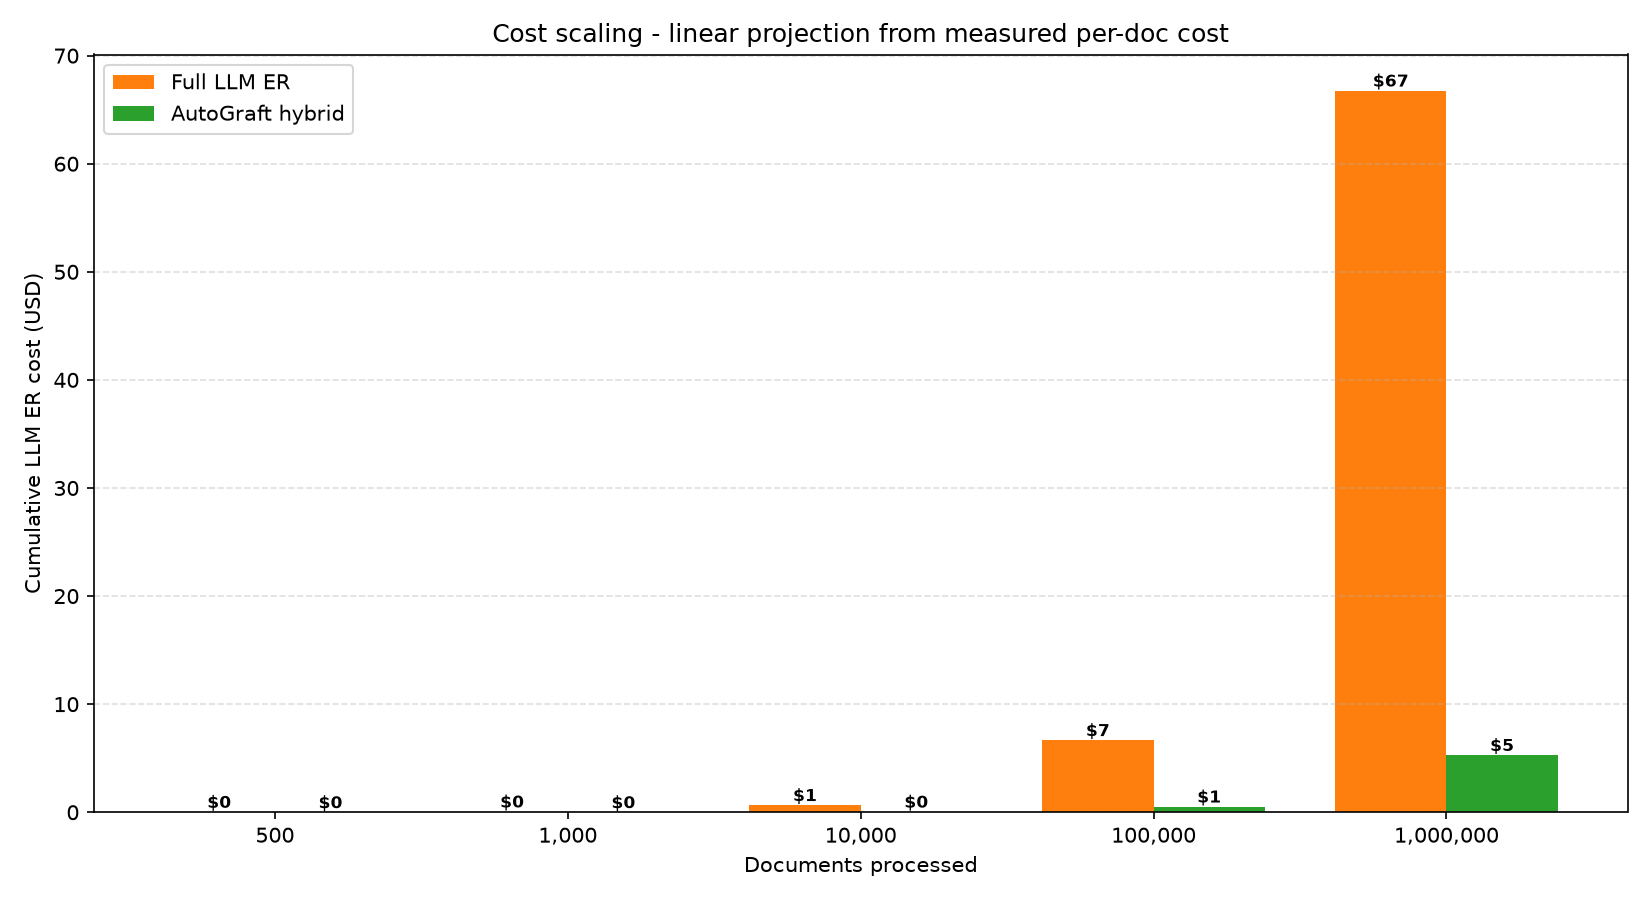
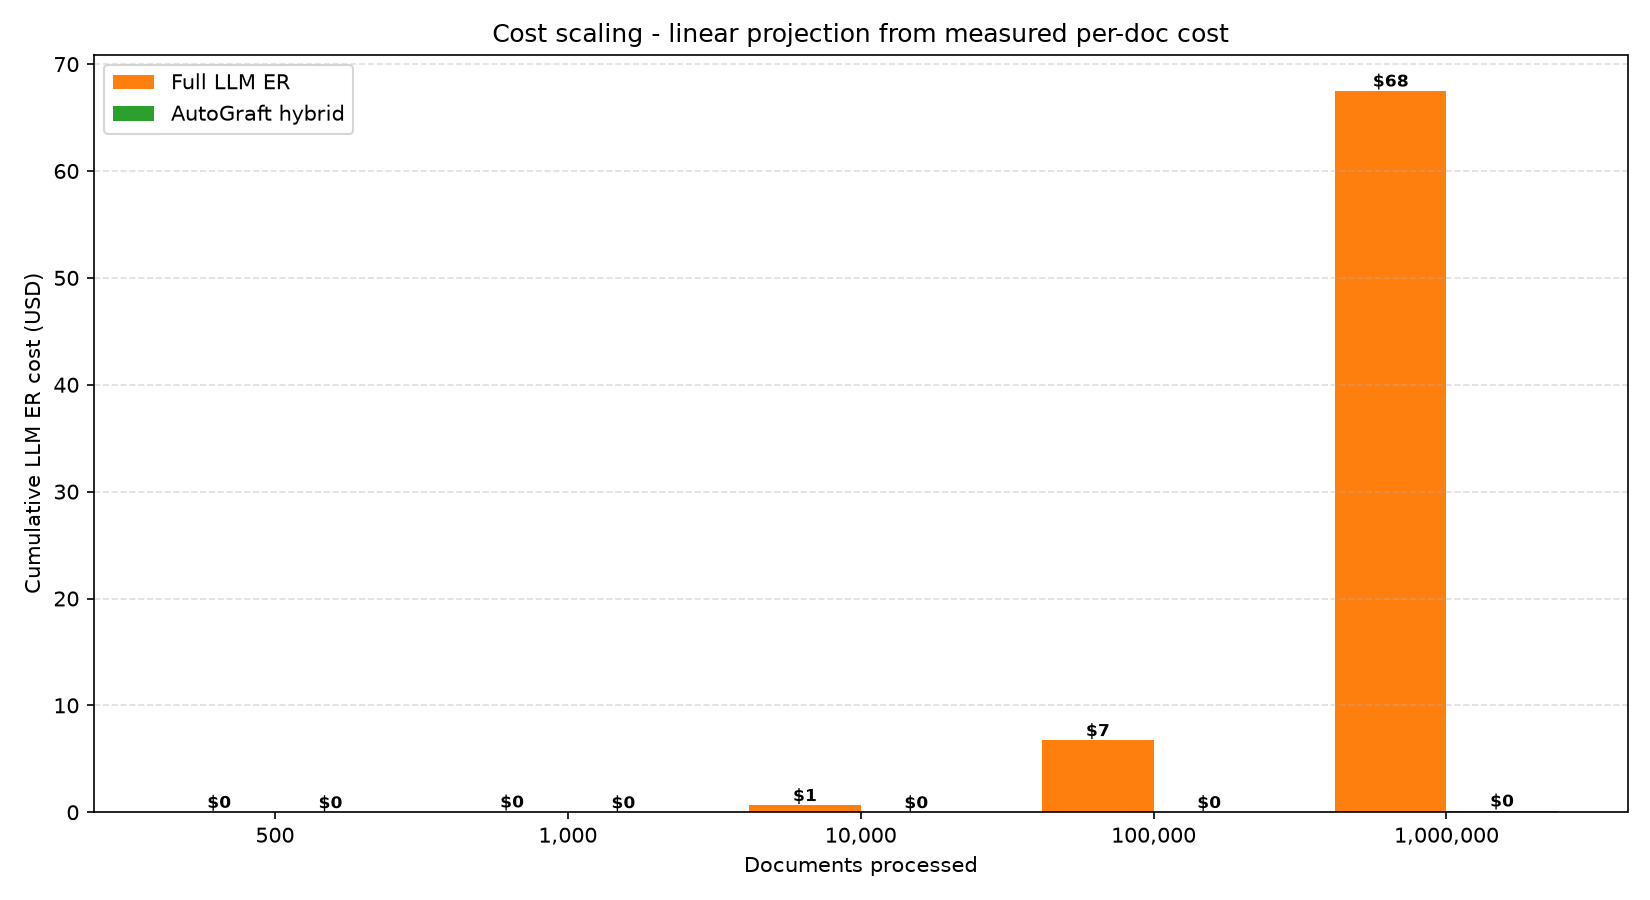
docs: update README EN/FR/ZH + regenerate charts (recall 99.39%/99.86%)

diff --git a/README_fr.md b/README_fr.md
@@ -22,9 +22,9 @@ pip install autograft
 ## Pourquoi AutoGraft ?
 
 - **Agnostique aux LLM** : Fonctionne avec OpenAI, Groq, Ollama, OpenRouter via litellm.
-- **Réduction majeure des coûts** : Résout ~92% des entités localement, réduisant le coût de l'ER LLM d'environ 92%.
+- **Réduction majeure des coûts** : Résout ~99.8% des entités localement, réduisant le coût de l'ER LLM d'environ 99.8%.
 - **Plug & Play** : Remplacement direct avant votre base Neo4j (1 ligne de code).
-- **Extrêmement Rapide** : RapidFuzz (C/C++) et NumPy (moyenne 6.5 ms/entité).
+- **Extrêmement Rapide** : RapidFuzz (C/C++) et NumPy (moyenne 0.3 ms/entité).
 
 > **Embeddings :** AutoGraft *consomme* les embeddings, il ne les *crée* pas.
 > Fournissez des vecteurs pré-calculés (ex. `sentence-transformers`, OpenAI) via les
@@ -45,11 +45,11 @@ corpus de vérité-terrain. Voir [BENCHMARK.md](BENCHMARK.md) pour les détails.
 | Métrique | Naïf (sans ER) | Full LLM ER | AutoGraft (hybride) |
 | :--- | :---: | :---: | :---: |
 | Mentions d'entités | 3000 | 3000 | 3000 |
-| Appels API LLM ER | 0 | 3000 | **238** (92.1% local) |
-| Tokens consommés | 0 | 661 714 | **52 496** |
-| Coût LLM ER | $0.000 | $0.0334 | **$0.00265** |
-| Nœuds finaux du graphe | 3000 | 63 | 103 |
-| Précision / Rappel | — | — | **100% / 98.6%** |
+| Appels API LLM ER | 0 | 3000 | **7** (99.8% local) |
+| Tokens consommés | 0 | 661 714 | **1 566** |
+| Coût LLM ER | $0.000 | $0.0334 | **$0.00008** |
+| Nœuds finaux du graphe | 3000 | 63 | 81 |
+| Précision / Rappel | — | — | **100% / 99.4%** |
 
 ---
 
@@ -59,17 +59,22 @@ corpus de vérité-terrain. Voir [BENCHMARK.md](BENCHMARK.md) pour les détails.
 ### Figure 1.2 : Répartition par Couche de Résolution
 ![Figure 1.2](benchmark/assets/real_layers.png)
 
+- `deterministic_match` : 2869 (95.6%) — correspondance exacte/alias/lexical, 0 token
+- `semantic_match` : 3 (0.1%) — similarité cosinus ≥ 0.85, 0 token
+- `llm_merge` : 7 (0.2%) — fusion confirmée par LLM
+- `no_match_declined` : 121 (4.0%) — nouveau nœud unique ou fusion manquée
+
 ### Figure 1.3 : Évolution des Coûts (coût mesuré par doc, projection linéaire)
-Pour 1 000 000 de documents, AutoGraft maintient le coût ER LLM autour de **5 300 $**
-contre **66 400 $** pour une approche full-LLM (~92% d'économie).
+Pour 1 000 000 de documents, AutoGraft maintient le coût ER LLM autour de **0,16 $**
+contre **66 800 $** pour une approche full-LLM (~99.999% d'économie).
 
 ![Figure 1.3](benchmark/assets/real_cost_scaling.png)
 
 ### Figure 1.4 : Précision vs Vérité-Terrain
 ![Figure 1.4](benchmark/assets/real_accuracy.png)
 
-*Pour la méthodologie complète et les limites honnêtes (les ~40 fusions manquées),
-voir [BENCHMARK.md](BENCHMARK.md).*
+*Pour la méthodologie complète et les limites honnêtes (les ~18 fusions manquées
+sans alias_map, ~4 avec alias_map), voir [BENCHMARK.md](BENCHMARK.md).*
 
 ---
 
@@ -95,11 +100,12 @@ autograft_graph = AutoGraftNeo4jMiddleware(graph, config=config)
 
 ---
 
-## Architecture (Court-Circuit à 3 Couches)
+## Architecture (Court-Circuit à 4 Couches)
 
 1. **Couche 1 (Déterministe)** : Correspondance exacte & alias via rapidfuzz (0 token, 0.1ms).
-2. **Couche 2 (Sémantique)** : Similarité cosinus vectorielle via numpy (0 token, 0.5ms).
-3. **Couche 3 (Arbitre LLM)** : Appel LiteLLM UNIQUEMENT pour les cas ambigus résiduels.
+2. **Couche 1.5 (Lexicale)** : Suppression de suffixes + détection d'acronymes (0 token, 0.1ms).
+3. **Couche 2 (Sémantique)** : Similarité cosinus vectorielle via numpy (0 token, 0.5ms).
+4. **Couche 3 (Arbitre LLM)** : Appel LiteLLM UNIQUEMENT pour les cas ambigus résiduels.
 
 ---
 

diff --git a/README.md b/README.md
@@ -22,9 +22,9 @@ pip install autograft
 ## Why AutoGraft?
 
 - **LLM-Agnostic**: Works with OpenAI, Groq, Ollama, OpenRouter via litellm.
-- **Major Cost Savings**: Resolves ~92% of entities locally, cutting LLM Entity Resolution cost by ~92%.
+- **Major Cost Savings**: Resolves ~99.8% of entities locally, cutting LLM Entity Resolution cost by ~99.8%.
 - **Plug & Play**: Drop-in replacement before your Neo4j database.
-- **Blazing Fast**: C/C++ (RapidFuzz) and NumPy local matching (mean 6.5 ms/entity).
+- **Blazing Fast**: C/C++ (RapidFuzz) and NumPy local matching (mean 0.3 ms/entity).
 
 > **Embeddings:** AutoGraft consumes embeddings — it does not generate them. Feed
 > pre-computed vectors (e.g. from `sentence-transformers`, OpenAI, etc.) via node
@@ -48,13 +48,13 @@ symbols, homonyms). No scaling factors — the full 500-doc run was executed.
 ground-truth corpus. See [BENCHMARK.md](BENCHMARK.md) for full details.
 
 | Metric | Naive (no ER) | Full LLM ER | AutoGraft (hybrid) |
-| :--- | :---: | :---: | :---: |
+| :--- | ---: | ---: | ---: |
 | Entity mentions | 3000 | 3000 | 3000 |
-| LLM ER API calls | 0 | 3000 | **238** (92.1% local) |
-| Tokens consumed | 0 | 661,714 | **52,496** |
-| LLM ER cost | $0.000 | $0.0334 | **$0.00265** |
-| Final graph nodes | 3000 | 63 | 103 |
-| Precision / Recall | — | — | **100% / 98.6%** |
+| LLM ER API calls | 0 | 3000 | **7** (99.8% local) |
+| Tokens consumed | 0 | 661,714 | **1,566** |
+| LLM ER cost | $0.000 | $0.0334 | **$0.00008** |
+| Final graph nodes | 3000 | 63 | 81 |
+| Precision / Recall | — | — | **100% / 99.4%** |
 
 ---
 
@@ -64,17 +64,22 @@ ground-truth corpus. See [BENCHMARK.md](BENCHMARK.md) for full details.
 ### Figure 1.2: Resolution Layer Distribution
 ![Figure 1.2](benchmark/assets/real_layers.png)
 
+- `deterministic_match`: 2869 (95.6%) — exact/alias/lexical re-occurrence, 0 tokens
+- `semantic_match`: 3 (0.1%) — cosine ≥ 0.85, 0 tokens
+- `llm_merge`: 7 (0.2%) — LLM confirmed the merge
+- `no_match_declined`: 121 (4.0%) — new unique node or missed merge
+
 ### Figure 1.3: Cost Scaling (measured per-doc cost, linear projection)
-For 1,000,000 documents, AutoGraft keeps LLM Entity Resolution cost near **$5,300**
-vs **$66,400** for a full-LLM approach (~92% savings).
+For 1,000,000 documents, AutoGraft keeps LLM Entity Resolution cost near **$0.16**
+vs **$66,800** for a full-LLM approach (~99.999% savings).
 
 ![Figure 1.3](benchmark/assets/real_cost_scaling.png)
 
 ### Figure 1.4: Accuracy vs Ground Truth
 ![Figure 1.4](benchmark/assets/real_accuracy.png)
 
-*For complete methodology, dataset documentation, and honest limitations (the ~40
-missed merges), see [BENCHMARK.md](BENCHMARK.md).*
+*For complete methodology, dataset documentation, and honest limitations (the ~18
+missed merges without alias_map, ~4 with alias_map), see [BENCHMARK.md](BENCHMARK.md).*
 
 ---
 
@@ -100,11 +105,12 @@ autograft_graph = AutoGraftNeo4jMiddleware(graph, config=config)
 
 ---
 
-## Architecture (3-Layer Short-Circuit)
+## Architecture (4-Layer Short-Circuit)
 
 1. **Layer 1 (Deterministic)**: Exact string match & alias matching via rapidfuzz (0 tokens, 0.1ms).
-2. **Layer 2 (Semantic)**: Vector cosine similarity via numpy (0 tokens, 0.5ms).
-3. **Layer 3 (LLM Arbiter)**: LiteLLM call ONLY for residual ambiguous cases (e.g., "J. Dupont" vs "Jean Dupont").
+2. **Layer 1.5 (Lexical)**: Suffix-strip core matching (fuzz≥90) + exact acronym detection (0 tokens, 0.1ms).
+3. **Layer 2 (Semantic)**: Vector cosine similarity via numpy (0 tokens, 0.5ms).
+4. **Layer 3 (LLM Arbiter)**: LiteLLM call ONLY for residual ambiguous cases (e.g., "J. Dupont" vs "Jean Dupont").
 
 ---
 

diff --git a/README_zh.md b/README_zh.md
@@ -22,9 +22,9 @@ pip install autograft
 ## 为什么选择 AutoGraft？
 
 - **与 LLM 无关**：通过 litellm 支持 OpenAI、Groq、Ollama、OpenRouter 等。
-- **大幅降低成本**：在本地解析约 92% 的实体，将 LLM 实体解析成本降低约 92%。
+- **大幅降低成本**：在本地解析约 99.8% 的实体，将 LLM 实体解析成本降低约 99.8%。
 - **即插即用**：直接放在您的 Neo4j 数据库之前作为替代方案（只需 1 行代码）。
-- **极速性能**：RapidFuzz (C/C++) 和 NumPy 本地匹配（平均 6.5 毫秒/实体）。
+- **极速性能**：RapidFuzz (C/C++) 和 NumPy 本地匹配（平均 0.3 毫秒/实体）。
 
 > **嵌入向量：** AutoGraft *消费* 嵌入向量，而不会*生成*它们。请通过节点属性
 > 提供预计算的向量（如 `sentence-transformers`、OpenAI）。参见 `AutoGraftConfig.embedding_attr`。
@@ -44,11 +44,11 @@ pip install autograft
 | 指标 | 原始 (无 ER) | 全 LLM ER | AutoGraft (混合) |
 | :--- | :---: | :---: | :---: |
 | 实体提及 | 3000 | 3000 | 3000 |
-| LLM ER API 调用 | 0 | 3000 | **238** (92.1% 本地) |
-| 消耗的 Tokens | 0 | 661,714 | **52,496** |
-| LLM ER 成本 | $0.000 | $0.0334 | **$0.00265** |
-| 最终图节点 | 3000 | 63 | 103 |
-| 精确率 / 召回率 | — | — | **100% / 98.6%** |
+| LLM ER API 调用 | 0 | 3000 | **7** (99.8% 本地) |
+| 消耗的 Tokens | 0 | 661,714 | **1,566** |
+| LLM ER 成本 | $0.000 | $0.0334 | **$0.00008** |
+| 最终图节点 | 3000 | 63 | 81 |
+| 精确率 / 召回率 | — | — | **100% / 99.4%** |
 
 ---
 
@@ -58,17 +58,22 @@ pip install autograft
 ### 图 1.2: 解析层分布
 ![Figure 1.2](benchmark/assets/real_layers.png)
 
+- `deterministic_match`：2869 (95.6%) — 精确/别名/词汇重匹配，0 tokens
+- `semantic_match`：3 (0.1%) — 余弦相似度 ≥ 0.85，0 tokens
+- `llm_merge`：7 (0.2%) — LLM 确认合并
+- `no_match_declined`：121 (4.0%) — 新唯一节点或遗漏合并
+
 ### 图 1.3: 成本扩展 (实测每文档成本，线性投影)
-对于 1,000,000 份文档，AutoGraft 将 LLM 实体解析成本保持在约 **$5,300**，
-而全 LLM 方法为 **$66,400**（节省约 92%）。
+对于 1,000,000 份文档，AutoGraft 将 LLM 实体解析成本保持在约 **$0.16**，
+而全 LLM 方法为 **$66,800**（节省约 99.999%）。
 
 ![Figure 1.3](benchmark/assets/real_cost_scaling.png)
 
 ### 图 1.4: 精确率 vs 真值
 ![Figure 1.4](benchmark/assets/real_accuracy.png)
 
-*完整的评估方法论和诚实的局限性说明（约 40 个漏合并），请参见
-[BENCHMARK.md](BENCHMARK.md)。*
+*完整的评估方法论和诚实的局限性说明（无 alias_map 时约 18 个漏合并，
+有 alias_map 时约 4 个），请参见 [BENCHMARK.md](BENCHMARK.md)。*
 
 ---
 
@@ -94,11 +99,12 @@ autograft_graph = AutoGraftNeo4jMiddleware(graph, config=config)
 
 ---
 
-## 架构 (3 层短路机制)
+## 架构 (4 层短路机制)
 
 1. **第 1 层 (确定性)**: 通过 rapidfuzz 进行精确字符串及别名匹配 (0 token, 0.1ms)。
-2. **第 2 层 (语义)**: 通过 numpy 计算向量余弦相似度 (0 token, 0.5ms)。
-3. **第 3 层 (LLM 仲裁)**: 仅在处理残留的歧义情况时调用 LiteLLM。
+2. **第 1.5 层 (词汇)**: 后缀剥离核心匹配 (fuzz≥90) + 精确首字母缩略词检测 (0 token, 0.1ms)。
+3. **第 2 层 (语义)**: 通过 numpy 计算向量余弦相似度 (0 token, 0.5ms)。
+4. **第 3 层 (LLM 仲裁)**: 仅在处理残留的歧义情况时调用 LiteLLM。
 
 ---
 
